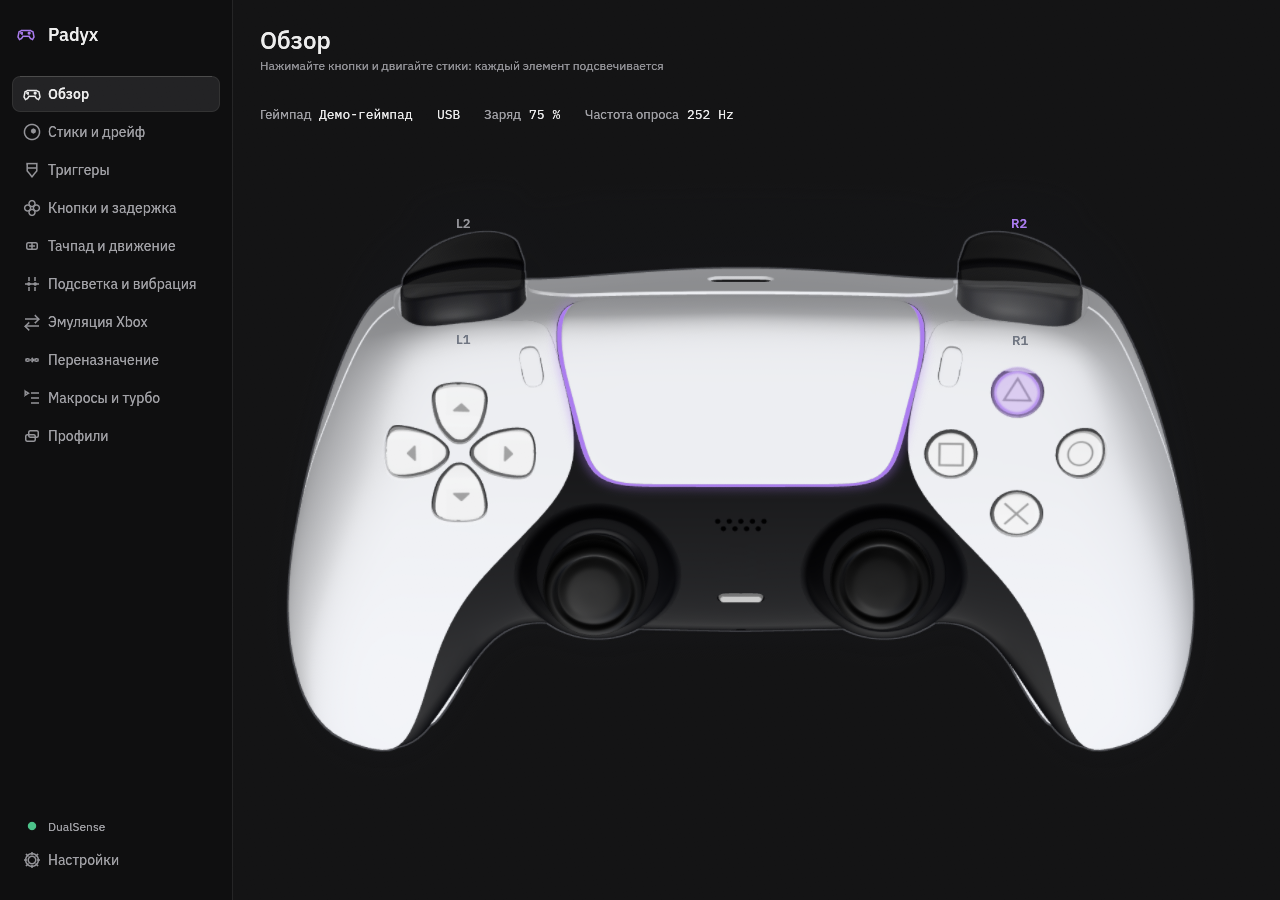
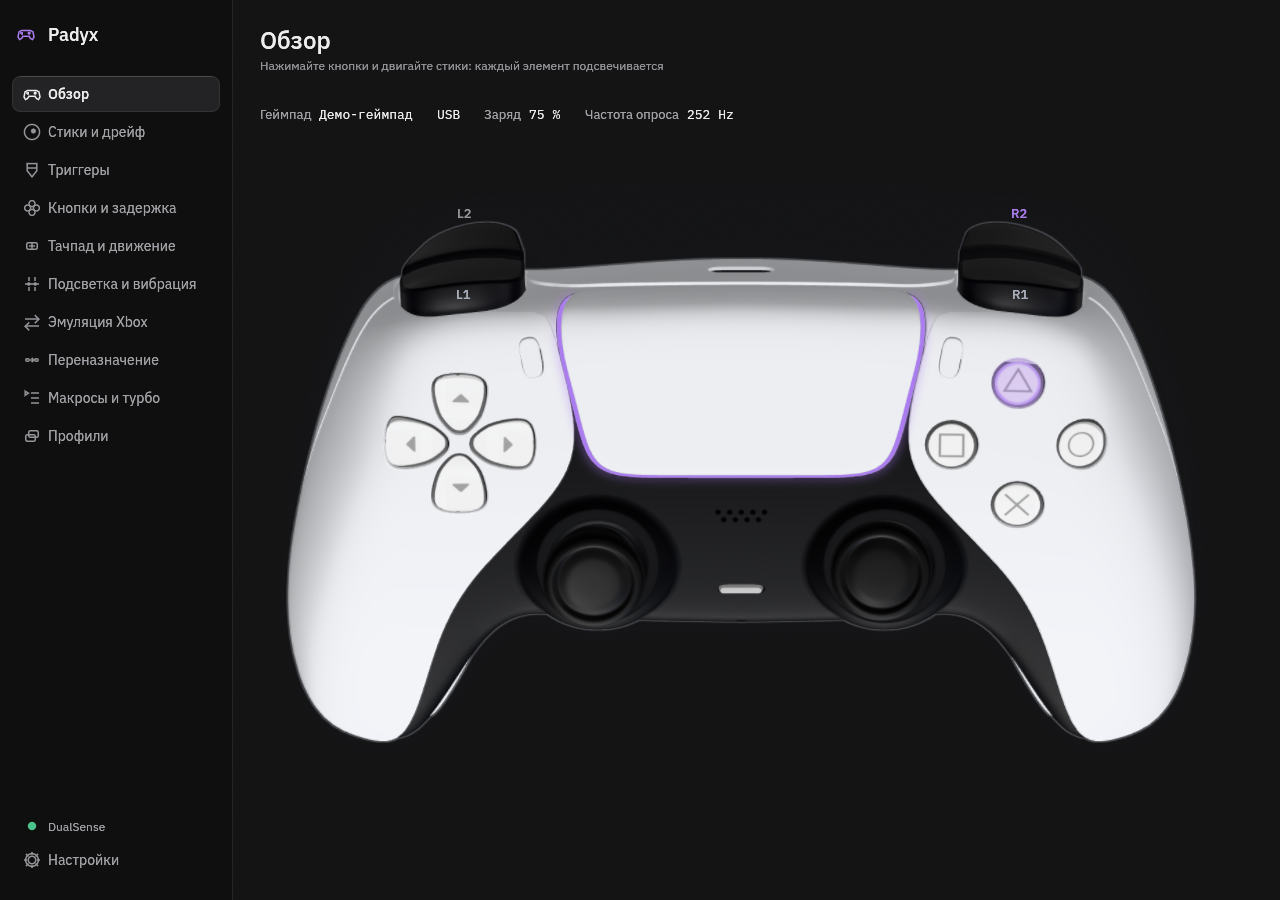
Padyx 1.1.0: separate bumper and trigger meshes; no highlight on L1/L2/R1/R2
The model's trigger mesh held both the bumper (upper part) and the trigger blade (below the groove at 14 mm). They are split: L1/R1 sink as their own sprites, L2/R2 rotate about the blade's hinge through five pull steps. The shell-dent and glow strips are gone; only the badge turns accent. Adds a test that bumper sprites never follow the trigger value. Demo pose can set the shoulders by env for screenshots.

diff --git a/src/app/padview.rs b/src/app/padview.rs
@@ -97,6 +97,20 @@ pub fn tilt_cell(x: f32, y: f32) -> (usize, usize, f32, f32) {
     (i as usize, j as usize, gx - i, gy - j)
 }
 
+/// What the shoulders show. The bumpers (L1, R1) depend only on their own button and the triggers (L2, R2) only on
+/// their own pull, so one can never move the other.
+pub struct ShoulderPlan {
+    /// Sprite name of the left and the right bumper.
+    pub bumper: [&'static str; 2],
+    /// The two trigger steps to blend and how far toward the upper one, for the left and the right trigger.
+    pub trigger: [(usize, f32); 2],
+}
+
+pub fn shoulder_plan(bumper_pressed: [bool; 2], trigger_pull: [f32; 2]) -> ShoulderPlan {
+    let name = |p: bool| if p { "pressed" } else { "idle" };
+    ShoulderPlan { bumper: [name(bumper_pressed[0]), name(bumper_pressed[1])], trigger: [trigger_blend(trigger_pull[0]), trigger_blend(trigger_pull[1])] }
+}
+
 pub fn tilt_name(i: usize, j: usize) -> String {
     format!("t{i}{j}")
 }
@@ -216,14 +230,6 @@ pub fn pad_view(ui: &mut Ui, rect: Rect, pad: &PadSnapshot, p: &Pal) {
     pen.quad(art.rim.id(), whole, FULL_UV, rim_tint);
     pen.quad(art.body.id(), whole, FULL_UV, Color32::WHITE);
 
-    // Shoulders: L1 and R1 are dents in the shell.
-    for (b, id) in [(Btn::L1, "l1"), (Btn::R1, "r1")] {
-        if on(b) {
-            pen.sprite(id, "pressed", Color32::WHITE, (0.0, 0.0));
-            pen.mask(id, "pressed", accent(p, 150), (0.0, 0.0));
-        }
-    }
-
     // The lightbar strips in the colour the pad is told to show.
     let lc = pad.out.light_scaled();
     if lc.iter().any(|&c| c > 0) {
@@ -274,19 +280,14 @@ pub fn pad_view(ui: &mut Ui, rect: Rect, pad: &PadSnapshot, p: &Pal) {
         }
     }
 
-    // Triggers: two neighbouring pull steps cross-fade; the accent grows with the pull.
-    for (id, val, click) in [("l2", st.trigger_l(), on(Btn::L2)), ("r2", st.trigger_r(), on(Btn::R2))] {
-        let (lo, f) = trigger_blend(val);
+    // Triggers (the blade under the bumper) and bumpers: separate meshes. The trigger cross-fades between pull
+    // steps; the bumper sinks when L1/R1 is pressed. Neither has a highlight; the badge colour is the cue.
+    let plan = shoulder_plan([on(Btn::L1), on(Btn::R1)], [st.trigger_l(), st.trigger_r()]);
+    for (k, (id, bumper)) in [("l2", "l1"), ("r2", "r1")].into_iter().enumerate() {
+        let (lo, f) = plan.trigger[k];
         pen.sprite(id, TRIGGER_STEPS[lo], Color32::from_white_alpha(((1.0 - f) * 255.0).round() as u8), (0.0, 0.0));
         pen.sprite(id, TRIGGER_STEPS[lo + 1], Color32::from_white_alpha((f * 255.0).round() as u8), (0.0, 0.0));
-        let near = TRIGGER_STEPS[(val * (TRIGGER_STEPS.len() - 1) as f32).round() as usize];
-        let a = (val * 110.0) as u8 + if click { 30 } else { 0 };
-        if a > 4 {
-            pen.mask(id, near, accent(p, a), (0.0, 0.0));
-        }
-        if click {
-            pen.ring(id, near, accent(p, 255), (0.0, 0.0));
-        }
+        pen.sprite(bumper, plan.bumper[k], Color32::WHITE, (0.0, 0.0));
     }
 
     // Sticks: the nearest tilt sprite, nudged by the part of a cell the stick is off its centre.
@@ -315,7 +316,7 @@ pub fn pad_view(ui: &mut Ui, rect: Rect, pad: &PadSnapshot, p: &Pal) {
         let Some(r) = l.rect_of(id) else { continue };
         let lit = on(btn) || val > 0.05;
         let (cx, cy) = ((r[0] + r[2]) / 2.0, if over { r[1] - 11.0 } else { (r[1] + r[3]) / 2.0 + 17.0 });
-        let col = if lit { p.accent } else if over { p.muted } else { Color32::from_rgb(112, 118, 130) };
+        let col = if lit { p.accent } else if over { p.muted } else { Color32::from_rgb(168, 174, 186) };
         pen.painter.text(pen.f.pt(cx, cy), egui::Align2::CENTER_CENTER, text, font.clone(), col);
     }
 }
@@ -348,7 +349,7 @@ mod tests {
             need.push((id.into(), vec!["idle".into(), "pressed".into()]));
         }
         for id in ["l1", "r1"] {
-            need.push((id.into(), vec!["pressed".into()]));
+            need.push((id.into(), vec!["idle".into(), "pressed".into()]));
         }
         for id in ["l2", "r2"] {
             need.push((id.into(), TRIGGER_STEPS.iter().map(|s| s.to_string()).collect()));
@@ -375,8 +376,9 @@ mod tests {
                     // The sprite is drawn at its own size.
                     assert!((sp.rect[2] - sp.rect[0] - a[2]).abs() < 0.5 && (sp.rect[3] - sp.rect[1] - a[3]).abs() < 0.5, "{part}/{n} size mismatch");
                 }
-                if n != "idle" && n != "s0" {
-                    if !matches!(part.as_str(), "l1" | "r1" | "lightbar") && !n.starts_with('s') {
+                let shoulder = matches!(part.as_str(), "l1" | "r1" | "l2" | "r2");
+                if n != "idle" && n != "s0" && !shoulder {
+                    if !matches!(part.as_str(), "lightbar") && !n.starts_with('s') && n != "idle" {
                         assert!(sp.ring.is_some(), "{part}/{n} has no outline");
                     }
                     let m = sp.mask.unwrap_or_else(|| panic!("{part}/{n} has no mask"));
@@ -387,6 +389,34 @@ mod tests {
         for (id, part) in &l.parts {
             for (n, sp) in &part.sprites {
                 assert!(sp.rect[0] >= 0.0 && sp.rect[1] >= 0.0 && sp.rect[2] <= l.size[0] && sp.rect[3] <= l.size[1], "{id}/{n} sticks out of the picture: {:?}", sp.rect);
+            }
+        }
+    }
+
+    #[test]
+    fn bumpers_ignore_the_trigger_and_triggers_ignore_the_bumper() {
+        let base = shoulder_plan([false, false], [0.0, 0.0]);
+        for pull in [0.0f32, 0.1, 0.33, 0.5, 0.8, 1.0] {
+            let p = shoulder_plan([false, false], [pull, pull]);
+            assert_eq!(p.bumper, base.bumper, "the bumper sprites must not follow the trigger ({pull})");
+            let q = shoulder_plan([true, false], [pull, 1.0 - pull]);
+            assert_eq!(q.bumper, ["pressed", "idle"]);
+        }
+        for pressed in [[false, false], [true, false], [false, true], [true, true]] {
+            let p = shoulder_plan(pressed, [0.6, 0.2]);
+            assert_eq!(p.trigger, [trigger_blend(0.6), trigger_blend(0.2)], "the trigger must not follow the bumper");
+        }
+        let l = layout();
+        for id in ["l1", "r1"] {
+            let idle = l.sprite(id, "idle").unwrap();
+            let pressed = l.sprite(id, "pressed").unwrap();
+            assert!(idle.atlas.is_some() && pressed.atlas.is_some() && idle.atlas != pressed.atlas, "{id} has two different sprites");
+            assert!(idle.mask.is_none() && pressed.mask.is_none() && idle.ring.is_none(), "{id} has no highlight layers");
+        }
+        for id in ["l2", "r2"] {
+            for n in TRIGGER_STEPS {
+                let sp = l.sprite(id, n).unwrap();
+                assert!(sp.mask.is_none() && sp.ring.is_none(), "{id}/{n} has no highlight layers");
             }
         }
     }

diff --git a/src/pad/demo.rs b/src/pad/demo.rs
@@ -92,16 +92,19 @@ pub fn demo_state(t: f32) -> PadState {
 /// A fixed pose with several controls active at once.
 pub fn pose_state() -> PadState {
     let mut s = PadState { conn: Conn::Usb, battery: Some(78), charge: Charge::Discharging, ..Default::default() };
-    for b in [Btn::Up, Btn::Left, Btn::Cross, Btn::Triangle, Btn::L1, Btn::Create, Btn::Ps, Btn::L3] {
+    // `PADYX_POSE_L1=0`, `PADYX_POSE_L2` and `PADYX_POSE_R2` (0..255) adjust the shoulders for screenshots.
+    let env = |k: &str| std::env::var(k).ok().and_then(|v| v.parse::<u8>().ok());
+    for b in [Btn::Up, Btn::Left, Btn::Cross, Btn::Triangle, Btn::Create, Btn::Ps, Btn::L3] {
         s.set(b, true);
     }
+    s.set(Btn::L1, env("PADYX_POSE_L1") != Some(0));
     s.lx = to_byte(0.75);
     s.ly = to_byte(-0.45);
     s.rx = to_byte(-0.55);
     s.ry = to_byte(0.65);
-    s.l2 = 150;
-    s.r2 = 255;
-    s.set(Btn::R2, true);
+    s.l2 = env("PADYX_POSE_L2").unwrap_or(150);
+    s.r2 = env("PADYX_POSE_R2").unwrap_or(255);
+    s.set(Btn::R2, s.r2 > 240);
     s.touch[0] = Finger { active: true, id: 1, x: 700, y: 430 };
     s.touch[1] = Finger { active: true, id: 2, x: 1350, y: 620 };
     s
